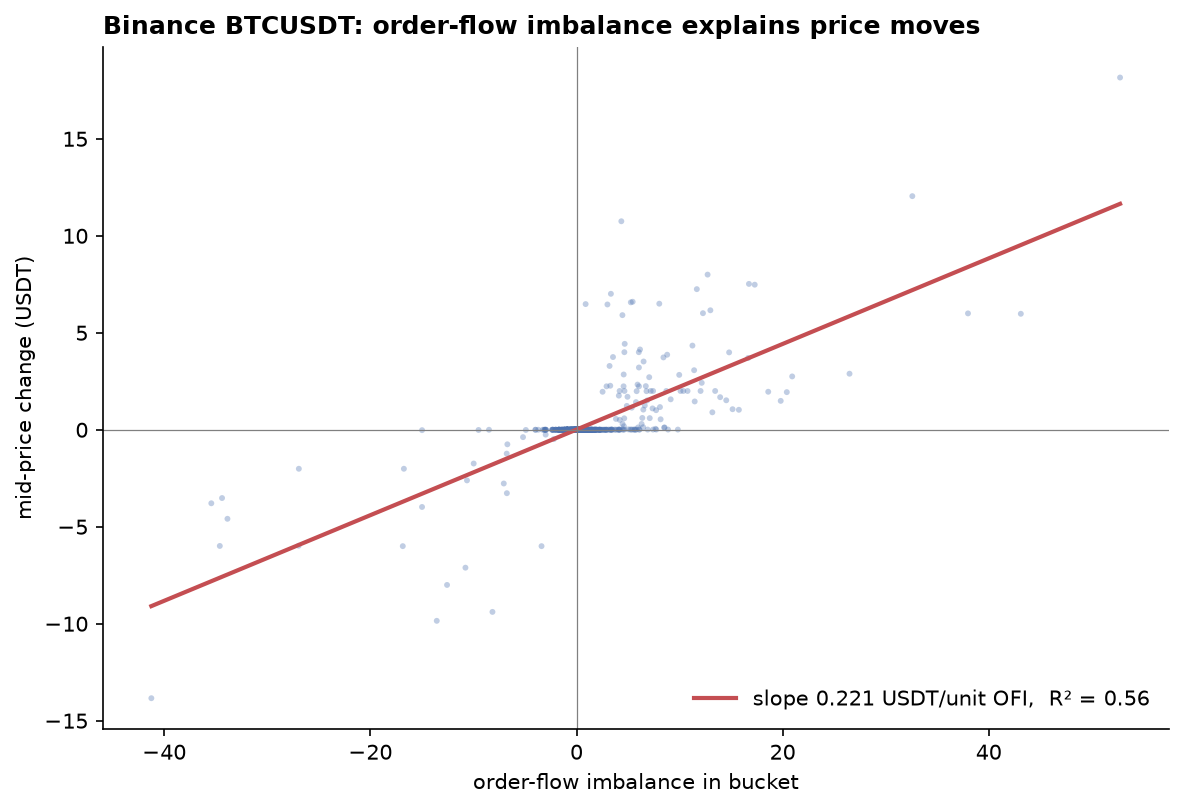
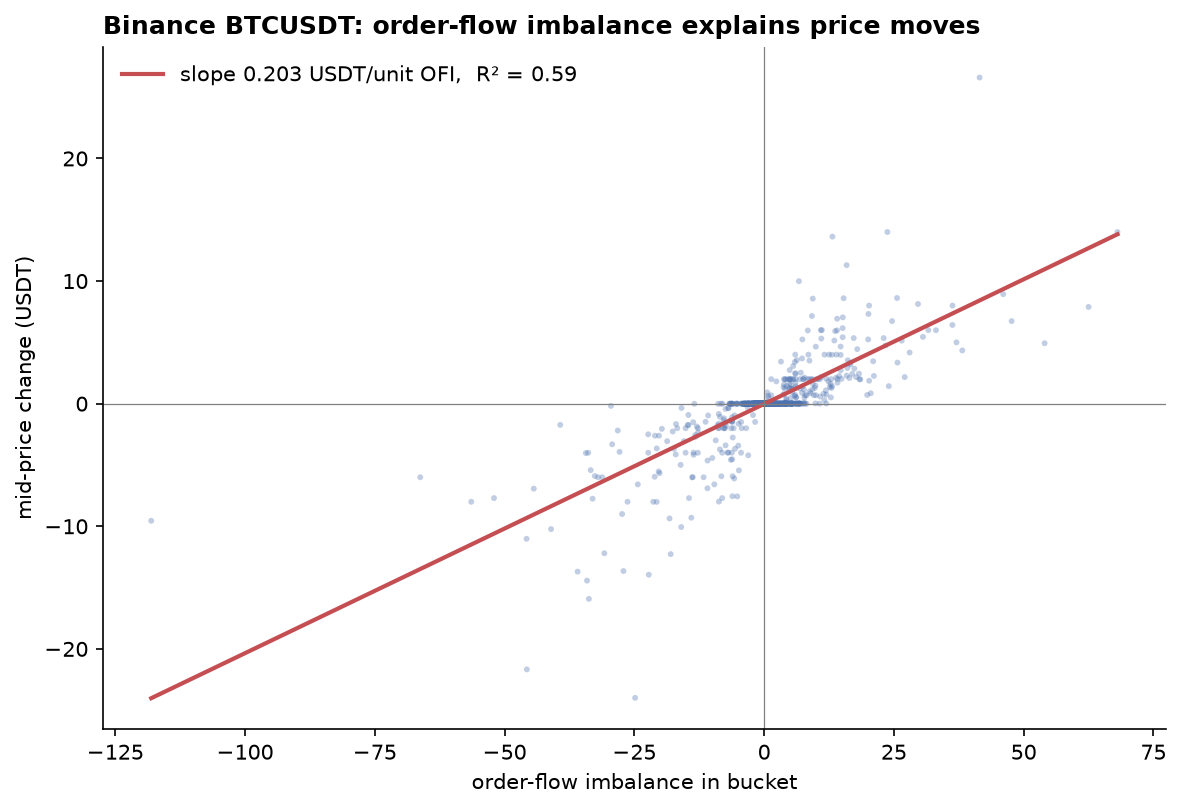
docs: live results from two-hour BTCUSDT and ETHUSDT sessions (#7)
Replaces the 40-minute BTCUSDT session in Studies 3 and 5 with two 2-hour
recordings taken side by side. Every number comes from 04_analyze_recording.py
and 06_cross_venue.py on those sessions. Highlights: the Stoikov micro-price
beats the mid on ETHUSDT (-10.8% MSE) but not on BTCUSDT, whose book has spread
blowouts; Bybit tends to lead Binance by tens of ms on both instruments.

diff --git a/README.md b/README.md
@@ -130,35 +130,40 @@ simulated and live tables shows which effects are mechanical consequences of the
 and which require informed traders. Record at least 15 minutes; the script warns when there is
 too little data to say anything.
 
-Results for one session: BTCUSDT, 40 minutes on 2026-11-01 from 03:18 local time (76,296 quote
-updates, 5,813 trades). It was a quiet market: the price stayed within a 181 USDT range and the
-mid changed 688 times, about once every 3.5 seconds. That session is one sample, not a study, and
-the recording is not in the repository (market data is never committed), so treat these numbers
-as an illustration of the pipeline.
+Results for one session, two instruments recorded side by side: BTCUSDT and ETHUSDT, 2 hours each
+on 2026-11-01 from 04:29 local time. BTCUSDT: 187,746 quote updates, 18,463 trades; the price
+stayed within a 162 USDT range and the mid changed 2,176 times, about once every 3.3 seconds.
+ETHUSDT: 127,805 quote updates, 14,136 trades; an 8 USDT range and 2,931 mid changes. Both books
+tick in cents, so a tick is 0.13 basis points of the BTC price but 0.44 of the ETH price, and the
+ETH best queues are deep (31.5 ETH on average against 2.5 BTC). That session is one sample, not a
+study, and the recordings are not in the repository (market data is never committed), so treat
+these numbers as an illustration of the pipeline.
 
-| Result | Live, 1 s buckets | Simulated |
-|---|---|---|
-| Δmid on OFI | β = 0.221 USDT per unit, **R² = 0.56**, t = 55 | R² = 0.42 at 1 s (Study 5), 0.66 at 10 s |
-| Impact coefficient vs 1/depth | R² = 0.85 across depth quintiles | R² = 0.93 (10 s) |
-| P(next move up), imbalance < 0.1 → > 0.9 | 0.38 → 0.97, not monotone in between | monotone |
-| Next 1 s move from queue imbalance | out-of-sample R² 3.3% | 0.7% (next 10 s) |
-| Multi-level OFI, best 1 → 10 levels (5 s) | out-of-sample R² 0.50 → 0.40–0.49: no gain | 0.66 → 0.88, 1 → 5 levels (10 s) |
-| Micro-price vs mid, next price change | Stoikov −0.34% MSE, naive −0.32%: no real edge | Stoikov −6.6%, naive −1.3% |
+| Result | BTCUSDT, 1 s buckets | ETHUSDT, 1 s buckets | Simulated |
+|---|---|---|---|
+| Δmid on OFI | β = 0.203 USDT per BTC, **R² = 0.59**, t = 102 | β = 0.0008 USDT per ETH, **R² = 0.70**, t = 129 | R² = 0.42 at 1 s (Study 5), 0.66 at 10 s |
+| Impact coefficient vs 1/depth | R² = 0.91 across depth quintiles | R² = 0.87 | R² = 0.93 (10 s) |
+| P(next move up), imbalance < 0.1 → > 0.9 | 0.09 → 0.93, monotone | 0.09 → 0.84, dips at 0.5–0.6 | monotone |
+| Next 1 s move from queue imbalance | out-of-sample R² 2.0% | 4.6% | 0.7% (next 10 s) |
+| Multi-level OFI, best 1 → 10 levels (5 s) | out-of-sample R² 0.33 → 0.38 | 0.45 → 0.47 | 0.66 → 0.88, 1 → 5 levels (10 s) |
+| Micro-price vs mid, next price change | Stoikov −0.6% MSE, naive −0.03% | **Stoikov −10.8%**, naive −4.2% | Stoikov −6.6%, naive −1.3% |
 
 ![Binance OFI impact](https://raw.githubusercontent.com/hossainyousuf751/microstructure-lab/main/docs/binance_btcusdt_ofi_impact.png)
 
-**What survives contact with a real book.** The contemporaneous OFI relation is at least as
-strong live as in the simulator at 1-second buckets, and impact is still larger when the book is
-thin. Queue imbalance predicts the next move at the extremes, and on the live book it even has a
-little out-of-sample power over the next second.
+**What survives contact with a real book.** The contemporaneous OFI relation is stronger live
+than in the simulator at 1-second buckets on both instruments, and impact is larger when the book
+is thin. Queue imbalance predicts the direction of the next move at the extremes, and has a little
+out-of-sample power over the next second.
 
-**What doesn't.** Deeper levels add nothing out of sample, while they explained a lot in the
-simulator. On BTCUSDT the levels behind the best quote are a cent apart and mostly small resting
-orders, so their flow carries little information. Neither micro-price beats the mid by more than
-a third of a percent. Most rows sit at a one-tick spread with the price unchanged. The 688 price
-changes include 323 updates where one side of the book thinned out for an instant and the spread
-jumped past 1 USDT (up to 10.8), and a squared-error comparison over so few moves is decided by
-those points. A busier session, or a robust loss, is the next step.
+**What depends on the book.** On ETHUSDT the Stoikov micro-price forecasts the next price change
+with 10.8% less squared error than the mid, more than in the simulator, and the edge fades with
+the horizon (4.3% after 5 moves, 0.9% after 20). On BTCUSDT it does not: −0.6%. The BTC book
+often thins out for an instant: the spread was above 1 USDT (100 ticks) in 1,131 updates over 305
+episodes, up to 17.4 USDT, while the ETH spread never exceeded 0.45 USDT. Those blowouts dominate
+a squared-error comparison and wreck the naive micro-price (its gap to the mid has an
+out-of-sample R² of −0.77 for the next second on BTC). Deeper levels add only a few points of R²
+on either book, much less than in the simulator: the levels behind the best quote are a cent apart
+and mostly small resting orders.
 
 ## Study 4: the market maker inside the order book
 
@@ -212,24 +217,30 @@ other venue's order flow explain, and whether either venue's flow or return pred
 known: a simulated venue B that copies venue A 300 ms late. They find the delay exactly
 (correlation 1.00 at +300 ms) and the direction: only B's next move is predictable from A.
 
-Same session as Study 3 (40 minutes; 76,296 Binance and 24,969 Bybit quote updates):
+Same session as Study 3 (2 hours each; 187,746 Binance and 76,632 Bybit quote updates for
+BTCUSDT, 127,805 and 21,344 for ETHUSDT):
 
 | Target venue | R² own OFI | R² other venue's OFI | R² both | Next 1 s from other's OFI (OOS) | Next 1 s from other's return (OOS) |
 |---|---|---|---|---|---|
-| Binance | 0.56 | 0.16 | 0.56 | 0.014 | 0.009 |
-| Bybit | 0.58 | 0.28 | 0.60 | 0.004 | 0.004 |
+| Binance BTCUSDT | 0.59 | 0.23 | 0.59 | 0.059 | 0.064 |
+| Bybit BTCUSDT | 0.54 | 0.33 | 0.58 | 0.002 | 0.001 |
+| Binance ETHUSDT | 0.70 | 0.15 | 0.70 | 0.036 | 0.094 |
+| Bybit ETHUSDT | 0.31 | 0.43 | 0.51 | 0.001 | 0.003 |
 
 ![Lead-lag](https://raw.githubusercontent.com/hossainyousuf751/microstructure-lab/main/docs/cross_venue_lead_lag.png)
 
-**No exploitable lead at this resolution.** Returns are most correlated at 0 ms (0.09): the
-venues move within the same 50 ms. Each venue's own order flow explains its price far better than
-the other's. Neither venue's flow or return predicts the other's next second by more than about
-1% out of sample. There is more correlation at negative lags (Bybit first, summed 0.62 against
-0.20 for Binance first), and it persisted after the recorder's timestamp bug was fixed (see
-CHANGELOG), but Bybit's price changed only 218 times, so this is a hypothesis for a longer
-recording, not a finding. One limitation is built in: timestamps are local receive times, so each
-venue's network latency to the recording machine is part of the measured lag. A lead shorter than
-the difference in latencies can't be seen from one machine.
+**Bybit tends to move first, by tens of milliseconds.** Returns are most correlated at 0 ms (0.25
+for BTCUSDT, 0.18 for ETHUSDT): most moves land on both venues within the same 50 ms. What is left
+is lopsided in the same way on both instruments. The correlation at negative lags (Bybit first)
+sums to 1.00 for BTCUSDT and 1.13 for ETHUSDT, against 0.26 at positive lags; the strongest
+off-zero lag is Bybit 150 ms ahead on both. The regressions agree: Bybit's flow and return predict
+Binance's next second (out-of-sample R² 3.6–9.4%), Binance's predict Bybit's by 0.3% or less. On
+ETHUSDT, Binance's flow explains more of Bybit's price than Bybit's own flow does (0.43 against
+0.31). The earlier 40-minute session pointed the same way; two instruments over two hours make it
+a consistent pattern, but still one session. One limitation is built in: timestamps are local
+receive times, so each venue's network latency to the recording machine is part of the measured
+lag. A lead shorter than the difference in latencies can't be told apart from a faster connection
+to Bybit, and a recording from a second location is the way to check.
 
 ## Roadmap
 
